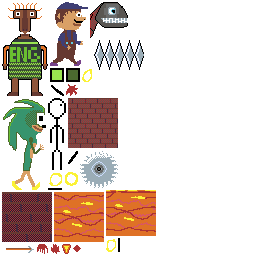
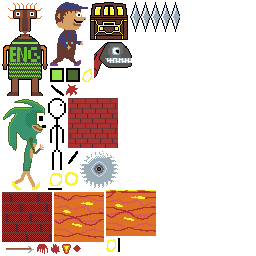
added chestrendering

Changed region(s): [[0.3438, 0.0, 0.7188, 0.3125]]

diff --git a/web/ld29_beneath_the_surface.dart b/web/ld29_beneath_the_surface.dart
@@ -13,7 +13,7 @@ import 'package:ld29_beneath_the_surface/client.dart';
                              SpatialRenderingSystem, EffectMovementSystem,
                              EffectRenderingSystem, EffectDecayingSystem,
                              TreasureChamberSystem, LosingScreenRenderSystem,
-                             StartMenuRenderingSystem
+                             StartMenuRenderingSystem, ChestRenderingSystem
                             ])
 import 'dart:mirrors';
 
@@ -55,6 +55,7 @@ class Game extends GameBase {
             new ControllerRenderingSystem(ctx, spriteSheet),
             new EnemyRenderingSystem(ctx, spriteSheet),
             new PlayerRenderingSystem(ctx, spriteSheet),
+            new ChestRenderingSystem(ctx, spriteSheet),
             new EffectRenderingSystem(ctx, spriteSheet),
             new LosingScreenRenderSystem(canvas),
             new StartMenuRenderingSystem(canvas),

diff --git a/lib/src/client/systems/rendering.dart b/lib/src/client/systems/rendering.dart
@@ -280,3 +280,17 @@ Now it's your duty to keep all the traps running to protect the treasur chest of
 
   bool checkProcessing() => !gameState.running;
 }
+
+class ChestRenderingSystem extends VoidEntitySystem {
+  CanvasRenderingContext2D ctx;
+  SpriteSheet sheet;
+  ChestRenderingSystem(this.ctx, this.sheet);
+
+  @override
+  void processSystem() {
+    var chest = sheet.sprites['chest'];
+    for (int i = 0; i < gameState.chests; i++) {
+      ctx.drawImageScaledFromSource(sheet.image, chest.src.left, chest.src.top, chest.src.width, chest.src.height, 50 + i * 50, 650, chest.dst.width, chest.dst.height);
+    }
+  }
+}
